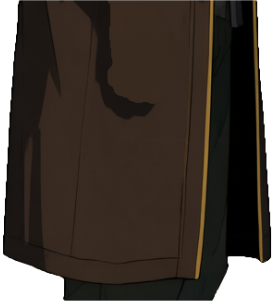
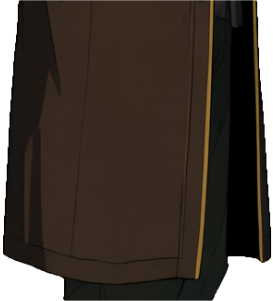
fix: repair Old K's cowering posture and coat layers

Changed region(s): [[0.2637, 0.0, 0.5568, 0.4186]]

diff --git a/art_src/characters/old_k_coat_cleanup/rebuild.py b/art_src/characters/old_k_coat_cleanup/rebuild.py
@@ -1,0 +1,119 @@
+"""Rebuild Old K's local coat repairs from his sleeve-free garment stage."""
+from hashlib import sha256
+from pathlib import Path
+from tempfile import NamedTemporaryFile
+import json
+import sys
+
+import cv2
+import numpy as np
+from PIL import Image
+
+
+HERE = Path(__file__).resolve().parent
+ROOT = HERE.parents[2]
+SHADOW_EDGE = [
+    (289, 399), (314, 393), (365, 390), (390, 403), (412, 451), (428, 473),
+    (435, 502), (446, 557), (445, 614), (446, 652), (438, 714), (415, 735),
+    (374, 737), (345, 724), (331, 708), (320, 640), (310, 593), (300, 561),
+    (291, 508), (285, 467), (282, 423),
+]
+ARMHOLE_EDGE = [
+    (300, 237), (321, 221), (352, 228), (375, 254), (395, 285),
+    (407, 323), (406, 359), (395, 394), (378, 408), (341, 416),
+    (313, 408), (294, 384), (283, 347), (286, 302), (292, 263),
+]
+
+
+def checked_image(path, expected):
+    if sha256(path.read_bytes()).hexdigest() != expected:
+        raise ValueError(f"Review the coat repair registration after the source changes: {path}")
+    with Image.open(path) as image:
+        return image.convert("RGBA")
+
+
+def feather(shape, outline, pixels):
+    mask = np.zeros(shape, np.uint8)
+    cv2.fillPoly(mask, [np.asarray(outline, dtype=np.int32)], 255)
+    return np.minimum(cv2.distanceTransform(mask, cv2.DIST_L2, cv2.DIST_MASK_PRECISE) / pixels, 1.0)
+
+
+def replace_cloth(original, sample, blend, where):
+    if original.shape != sample.shape or original.shape[:2] != blend.shape:
+        raise ValueError(f"Coat registration dimensions differ: {where}")
+    affected = (original[:, :, 3] != 0) & (blend > 0)
+    if not affected.any() or sample[:, :, 3][affected].min() < 240:
+        raise ValueError(f"Coat repair samples transparent or missing fabric: {where}")
+    rgb = original[:, :, :3]
+    amount = blend[affected, None]
+    result = original.copy()
+    result[:, :, :3][affected] = np.rint(
+        rgb[affected] * (1.0 - amount) + sample[:, :, :3][affected] * amount
+    ).astype(np.uint8)
+    return Image.fromarray(result)
+
+
+def prepare(root):
+    sys.path.insert(0, str(root / "tools/comfyui"))
+    from cut_layers import part_transform, render_part
+
+    manifest = json.loads((HERE / "sources.json").read_bytes())
+    hashes = manifest["source_sha256"]
+    stage_path = manifest["source"]
+    fabric = np.asarray(checked_image(root / stage_path, hashes[stage_path]))
+    spec = json.loads((root / "tools/comfyui/specs/old_k_side.json").read_bytes())
+    scale = spec["tex_px_per_wp"] / spec["illustration_px_per_wp"]
+    joints = {name: np.asarray(point, dtype=float) * scale for name, point in spec["joints"].items()}
+    base = root / "art_src/characters/old_k/overrides"
+    shadow = feather(fabric.shape[:2], SHADOW_EDGE, 8.0)
+    armhole = feather(fabric.shape[:2], ARMHOLE_EDGE, 17.0)
+    # The original stage still has a drawn armhole. Gather brown cloth from a
+    # nearby solid section of the same coat for that area.
+    y, x = np.indices(fabric.shape[:2], dtype=np.float32)
+    plain = cv2.remap(fabric, 327 + (x - 283) * 0.79, 635 + (y - 222) * 0.77, cv2.INTER_LINEAR)
+    output = {}
+    for part, name in manifest["parts"].items():
+        original = checked_image(root / name, hashes[name])
+        blend = shadow.copy()
+        if part == "pelvis":
+            # Below this seam the same piece contains a trouser hip cap.
+            blend[spec["parts"]["pelvis"]["y"][1]:, :] = 0.0
+        repaired = replace_cloth(
+            np.asarray(original), plain if part == "torso" else fabric,
+            armhole if part == "torso" else blend, name,
+        )
+        if part != "torso":
+            output[base / "refined" / f"{part}.png"] = repaired
+            continue
+        transform = part_transform(original, spec["parts"][part], joints, scale)
+        if transform is None:
+            raise ValueError(f"Could not register {name} to its game texture")
+        previous = render_part(original, transform, scale)
+        updated = render_part(repaired, transform, scale)
+        reference = np.array(checked_image(HERE / "torso-reference.png", manifest["reference_sha256"]))
+        if previous.shape != reference.shape or not np.allclose(transform[3], [122.79, 306.17], atol=0.005):
+            raise ValueError("The torso has a revised texture size or pivot. Review the coat repair registration.")
+        changed = np.any(previous[:, :, :3] != updated[:, :, :3], axis=2)
+        reference[changed, :3] = updated[changed, :3]
+        output[base / "torso.png"] = Image.fromarray(reference)
+    return output
+
+
+def publish(images):
+    for path, image in images.items():
+        if path.exists():
+            with Image.open(path) as existing:
+                if np.array_equal(np.asarray(existing), np.asarray(image)):
+                    continue
+        path.parent.mkdir(parents=True, exist_ok=True)
+        with NamedTemporaryFile(dir=path.parent, suffix=".png", delete=False) as handle:
+            temporary = Path(handle.name)
+        try:
+            image.save(temporary)
+            temporary.replace(path)
+        finally:
+            temporary.unlink(missing_ok=True)
+
+
+if __name__ == "__main__":
+    publish(prepare(ROOT))

diff --git a/pm/Nest-Egg/[NE-322]修正老K護頭與大衣殘影.md b/pm/Nest-Egg/[NE-322]修正老K護頭與大衣殘影.md
@@ -1,0 +1,47 @@
+# [NE-322] 修正老 K 護頭與大衣殘影
+
+> 狀態：完成
+
+## 內文
+
+### 需求
+
+老 K 受驚時蹲下護頭。肘腕銜接合理，雙腳踩地。清除抬手時出現在衣身、腰和衣襬的舊袖口與手臂殘影。[角色動作設計](../../design/12-cast-redraw/NPC_PERFORMANCE.md)
+
+### 來源
+
+2026-11-24，使用者附上當鋪接點特寫及衣料上的殘留輪廓，要求修正不合理的肢體。
+
+### 驗收條件
+
+- [x] 雙側接近、蹲伏進入、撐住頭部與安靜後起身皆可觀察。兩手沿前臂自然彎曲。
+- [x] 原貼圖的手臂陰影從三件衣料底層移除。底層修正可重建，衣料輪廓和支點與原圖一致。
+
+### 測試流程
+
+各從一側實際觸發三次槍聲，逐格看手腕和頭部，待角色起身後檢查。分別對照衣身、腰和衣襬，重建紋理並以 Forward+ 實景確認。
+
+---
+
+# 跟其他票的關係
+
+- Blocks：無
+- Blocked by：無
+- Related：NE-250、NE-255
+
+---
+
+# Commit-1
+
+## 內文
+
+校正老 K 抬臂、屈肘與轉腕的關節角度。沿用他的無袖階段圖，局部重建衣身、腰部和衣襬的色彩及法線。
+
+### 測試結果
+
+- RX 9070 XT Forward+，當鋪雙側觸發；兩側收錄的持續取樣期間，最大手腕折角約 54.3°，安靜後回到原姿態。貼圖 alpha 全部相同，三件素材的支點不變。
+- 兩次重建與實機採用素材逐像素一致。正式受影響的 53 組、67,493 項全過。
+
+### 截圖
+
+![老 K 蹲下護頭，外套的手臂殘影已清除](images/NE-322-old-k-cover-coat.png)

diff --git a/art_src/characters/old_k_coat_cleanup/README.md b/art_src/characters/old_k_coat_cleanup/README.md
@@ -1,0 +1,7 @@
+# 老 K 外套的局部修復
+
+以老 K 原本的無袖階段圖補回軀幹、腰部和衣襬的布料。原立繪裡手臂落下時，陰影被留在分件底層。因為手本身已獨立綁到骨架，抬手時這些輪廓需要從衣料移除。
+
+`sources.json` 記錄各來源的 SHA-256，`torso-reference.png` 是修前正式軀幹貼圖。重建用相同的原始座標和貼圖支點，只替換遮罩裡的不透明衣料色彩，並保留原 alpha。軀幹參考圖用來保留局部外其餘已發布像素。
+
+老 K 的配方在原肩部修復後執行 `rebuild.py`，再切貼圖與用 Godot 重建法線。來源圖及原本部件大小保持相同。兩次重建比對產出的內容。

diff --git a/pm/Nest-Egg/attachments/NE-255-lessons.md b/pm/Nest-Egg/attachments/NE-255-lessons.md
@@ -389,3 +389,7 @@
 - 原rig_perf_probe是同影格內同步腳本量測，並非600個render frame；真引擎子程序和整程序RAM另觀察，不用console wrapper的記憶體冒充引擎，也不以共享負載當效能結論。
 
 完整來源、反例、原圖與限制見[新讀者驗證](../../../design/12-cast-redraw/NEW_READER_CHARACTER_VALIDATION.md)。
+
+## 老 K 衣料上的手臂殘影
+
+立繪的手、前臂和袖子已切出，落下時的陰影仍會跟著布料留下。抬手後分開看衣身、腰部和衣襬，再對照無袖階段與原立繪確認歸屬。用已對位的乾淨衣料重建遮住的區域，保留衣料 alpha、褲腿顏色、骨架和支點。
